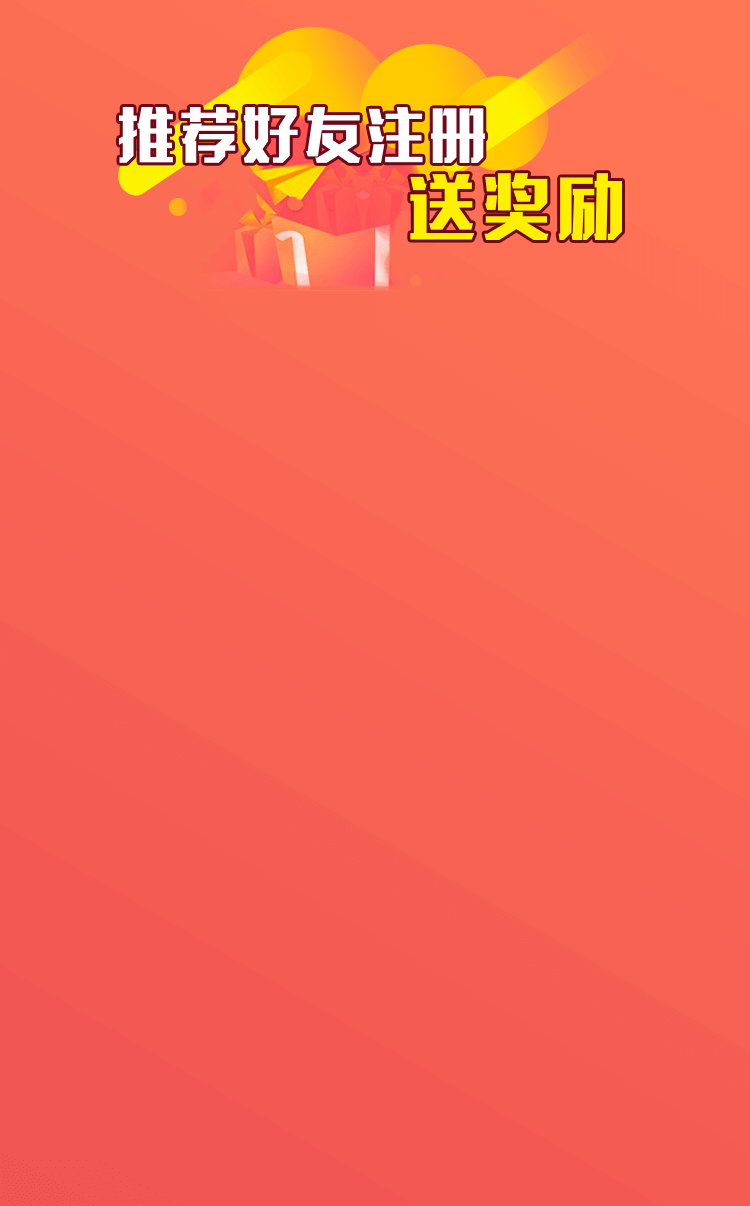
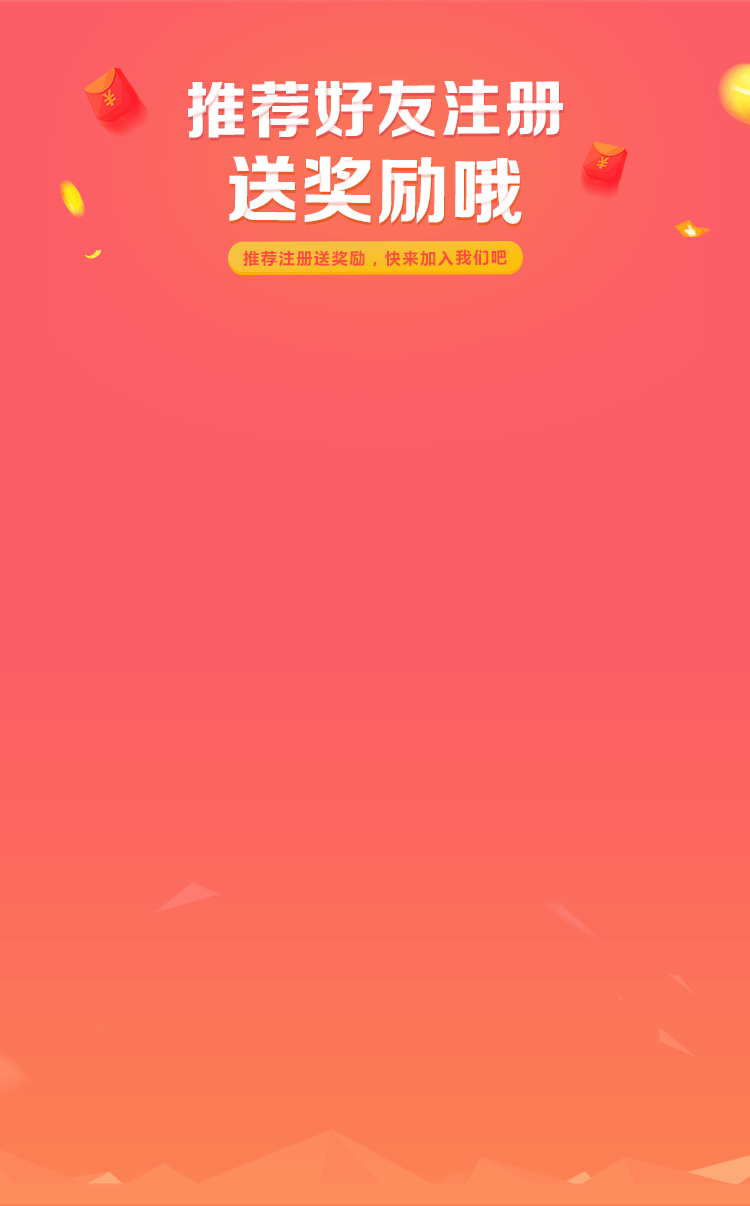
update

diff --git a/static/js/app/controller/user/Register.js b/static/js/app/controller/user/Register.js
@@ -61,17 +61,17 @@
         });
 
         //下载倍可盈app>
-        $(".r-protocol").click(function() {
-        	var timestamp = new Date().getTime()
-            window.location.href = '../share/share-upload.html?timestamp'+timestamp;
-        	$(".r-input").each(function() {
-	            var txt = $(this).siblings(".r-input-placeholder").attr("data-txt");
-	            $(this).val("")
-	            $(this).siblings(".r-input-placeholder").html(txt);
-	            
-	        })
-
-        });
+        // $(".r-protocol").click(function() {
+        // 	var timestamp = new Date().getTime()
+        //     window.location.href = '../share/share-upload.html?timestamp'+timestamp;
+        // 	$(".r-input").each(function() {
+	     //        var txt = $(this).siblings(".r-input-placeholder").attr("data-txt");
+	     //        $(this).val("")
+	     //        $(this).siblings(".r-input-placeholder").html(txt);
+	     //
+	     //    })
+        //
+        // });
 
         //验证码
         $("#rbtn-captcha").click(function() {
@@ -129,11 +129,11 @@
 
         //提交
         $("#rbtn-sub").click(function() {
-            var usernick = $("#r-nick").val();
+            var kind = $("#r-nick").val();
             var userTel = $("#r-tel").val();
             var userCaptcha = $("#r-captcha").val();
             var userPwd = $("#r-pwd").val();
-            if (usernick == null || usernick == "") {
+            if (kind == null || kind == "") {
                 base.showMsg("请输入昵称");
             } else if (userTel == null || userTel == "") {
                 base.showMsg("请输入手机号");
@@ -146,19 +146,15 @@
 				
 				var userReferee = $("#r-ref").val()
                 var parem = {
-                    "nickname": usernick,
+                    "kind": kind,
                     "mobile": userTel,
                     "loginPwd": userPwd,
                     "loginPwdStrength": base.calculateSecurityLevel(userPwd),
-                    "userReferee": userReferee,
+                    "userReferee": userReferee||'13110992819',
                     "inviteCode":inviteCode,
-                    "userRefereeKind": userRefereeKind||"C",
+                    "userRefereeKind": userRefereeKind||"S",
                     "smsCaptcha": userCaptcha,
                     "kind": "C",
-                    // "isRegHx": "0",
-                    // "province": dprovince,
-                    // "city": dcity,
-                    // "area": darea,
                     "systemCode": SYSTEM_CODE,
                     "companyCode": COMPANY_CODE
                 }
@@ -172,7 +168,7 @@
                         		userId: res.data.userId
                         	}).then(function(res) {
                     			CookieUtil.set("inviteCode", res.data.secretUserId);
-                            	window.location.href = '../user/success.html';
+                                window.location.href = '../share/share-upload.html';
 		                    }, function() {
 		        				base.hideLoading();
 		                        base.showMsg("请求失败");

diff --git a/static/html/user/register.html b/static/html/user/register.html
@@ -3,19 +3,24 @@
 
 <head>
     <link rel="import" href="../head.html?__inline">
-    <title>倍可盈</title>
+    <title>美业销帮</title>
     <!--SCRIPT_PLACEHOLDER-->
 </head>
 
 <body class="hp100 bg-r">
     <div class="r-wrap">
         <div class="r-telWrap">
-            <div class="r-icon">昵称</div>
-            <input class="r-style r-input" type="text" id="r-nick" />
-            <div class="r-style r-input-placeholder" data-txt="请设置昵称">请设置昵称</div>
+            <div class="r-icon">角色注册</div>
+            <select class="r-style r-input" id="r-nick"/>
+                <option class="r-style r-input" style="width: 100px;"value ="md">美导</option>
+                <option class="r-style r-input" value ="js">讲师</option>
+                <option class="r-style r-input" value="zj">专家</option>
+                <option class="r-style r-input" value="mry">美容院</option>
+            </select>
+            <div class="r-style r-input-placeholder" data-txt="请选择角色">请选择角色</div>
         </div>
         <div class="r-telWrap">
-            <div class="r-icon">手机号码</div>
+            <div class="r-icon">手机号</div>
             <input class="r-style r-input" type="tel" id="r-tel" pattern="[0-9]*" />
             <div class="r-style r-input-placeholder" data-txt="请输入手机号码">请输入手机号码</div>
         </div>
@@ -31,11 +36,6 @@
             <div class="r-icon">密码</div>
             <input class="r-style r-input" type="password" id="r-pwd" />
             <div class="r-style r-input-placeholder" data-txt="请输入密码">请输入密码(不少于6位)</div>
-        </div>
-        <div class="r-telWrap " id="r-ref-wrap">
-            <div class="r-icon">推荐人手机</div>
-            <input class="r-style r-input" type="tel" id="r-ref" pattern="[0-9]*" />
-            <div class="r-style r-input-placeholder" data-txt="请输入推荐人手机号码">请输入推荐人手机号码</div>
         </div>
         <input type="button" class="rbtn-sub" id="rbtn-sub" value="注册" />
     </div>

diff --git a/static/css/share.css b/static/css/share.css
@@ -98,14 +98,14 @@ input {
     background-size: cover;
 }
 
-.bg-b {
-    background-image: url(../images/bg2.png);
-    background-position: center;
-    background-size: cover;
-}
+/*.bg-b {*/
+    /*background-image: url(../images/bg2.png);*/
+    /*background-position: center;*/
+    /*background-size: cover;*/
+/*}*/
 
 .r-wrap {
-    margin-top: 3.3rem;
+    margin-top: 3.8rem;
     padding: 0 .4rem;
 }
 
@@ -116,7 +116,7 @@ input {
     border-radius: .1rem;
     overflow: hidden;
     position: relative;
-    margin-bottom: .2rem;
+    margin-bottom: .3rem;
 }
 
 .r-icon {
@@ -128,6 +128,7 @@ input {
     top: .27rem;
     left: 0;
     color: #484848;
+    font-size:0.3rem;
     /*border-right: 1px solid #fff;*/
 }
 
@@ -142,7 +143,7 @@ input {
     /*line-height: .9rem;*/
     margin-top: .27rem;
     background-color: transparent;
-    padding: 0 .1rem 0 1.2rem;
+    padding: 0 .1rem 0 2rem;
     color: #fff;
     font-size: .28rem;
     border-radius: .1rem;
@@ -197,7 +198,7 @@ input {
 }
 
 .r-input-placeholder {
-    margin-left: 0.6rem;
+    margin-left: 0rem;
     color: #aaaaaa;
     z-index: 9;
 }
@@ -487,11 +488,13 @@ input {
 .rs-top{
 	text-align: center;
 	width: 100%;
-	padding: .8rem 0;
+	margin: .8rem 0;
+	padding: 2.8rem 0;
+    line-height: inherit;
 }
 .rs-top .icon{
-	width: .44rem;
-	height: .44rem;
+	width: 1.44rem;
+	height: 1.44rem;
 	position: relative;
 	top: .08rem;
 	margin-right: .1rem;
@@ -502,8 +505,8 @@ input {
 }
 .rs-line{
 	width: 100%;
-	height: .2rem;
-	background-color: #f7f7f7;
+	height: 0.3rem;
+	background-color: #ffffff;
 }
 .rs-con{
 	width: 100%;
@@ -555,10 +558,10 @@ input {
 .rs-bottom .btn{
 	display: inline-block;
 	width: 100%;
-	line-height: .68rem;
+	line-height: 0.8rem;
 	background-color: #F15353;
 	color: #fff;
-	font-size: .26rem;
+	font-size: 0.32rem;
 	text-align: center;
 	border-radius: .04rem;
 }

diff --git a/static/html/user/success.html b/static/html/user/success.html
@@ -10,37 +10,24 @@
 <body class="hp100 bg_fff">
 	<div class="rs-wrap">
 		<div class="rs-top">
-			<i class="icon"></i>
-			<samp>注册成功</samp>
-		</div>
-		<div class="rs-line"></div>
-		<div class="rs-con">
-			<p class="txt">通过以下方式邀请好友注册，赚取返利。被邀请的人每完成一笔交易均可获得奖励</p>
-			<div class="rs-btn">
-				<button class="wrap href fl" id="copyBtn" data-clipboard-text="">
-					<i class="icon"></i>
-					<samp>复制链接</samp>
-				</button>
-				<div class="wrap qrcode fr" id="shareQrcodeBtn">
-					<i class="icon"></i>
-					<samp>分享二维码</samp>
-				</div>
-			</div>
+			<i class="icon"></i><br>
+			<div class="rs-line"></div>
+			<samp>注册成功，待后台审核</samp>
 		</div>
 		<div class="rs-bottom">
 			<a class="btn" href="javascript:void(0)" id="goUpload">前往下载APP</a>
 		</div>
 	</div>
 	
-	<div class="dialog am-modal-wrap hiddeni" id="dialog">
-        <div class="am-modal-mask"></div>
-        <div class="am-modal">
-            <div class="am-modal-content">
-            	<p>请长按链接复制</p>
-            	<div class="href"></div>
-            </div>
-        </div>
-    </div>
+	<!--<div class="dialog am-modal-wrap hiddeni" id="dialog">-->
+        <!--<div class="am-modal-mask"></div>-->
+        <!--<div class="am-modal">-->
+            <!--<div class="am-modal-content">-->
+            	<!--<p>请长按链接复制</p>-->
+            	<!--<div class="href"></div>-->
+            <!--</div>-->
+        <!--</div>-->
+    <!--</div>-->
     <link rel="import" href="../footer.html?__inline">
     <script data-loader>
         require(['app/controller/user/Success']);

diff --git a/static/js/app/controller/share/ShareUpload.js b/static/js/app/controller/share/ShareUpload.js
@@ -8,7 +8,7 @@ define([
     init();
     
     function init() {
-    	
+        base.showMsg("注册成功，请等待系统审核");
 		base.showLoading("加载中...")
 		$.when(
 			getAndroidUrl(),
@@ -51,13 +51,13 @@ define([
     }
 	
 	function getAndroidUrl(){
-		return Ajax.get("625918",{
-			"type":"android-c",
+		return Ajax.get("805917",{
+			"ckey":"android_download",
 			"systemCode":SYSTEM_CODE,
 			"companyCode":SYSTEM_CODE
 		}).then(function(res) {
 	        if (res.success) {
-        		androidUpdateUrl = res.data.downloadUrl;
+        		androidUpdateUrl = res.data.cvalue;
 	        } else {
 	        	base.showMsg(res.msg);
 	        }
@@ -67,13 +67,13 @@ define([
 	}
 	
 	function getIosUrl(){
-		return Ajax.get("625918",{
-			"type":"ios-c",
+		return Ajax.get("805917",{
+			"ckey":"ios_download",
 			"systemCode":SYSTEM_CODE,
 			"companyCode":SYSTEM_CODE
 		}).then(function(res) {
 	        if (res.success) {
-        		iosUpdateUrl = res.data.downloadUrl;
+        		iosUpdateUrl = res.data.cvalue;
 	        } else {
 	        	base.showMsg(res.msg);
 	        }

diff --git a/static/js/app/config.js b/static/js/app/config.js
@@ -1,6 +1,6 @@
-var SYSTEM_CODE = "CD-COIN000017";
-var COMPANY_CODE = "CD-COIN000017";
-var PIC_PREFIX = 'http://ozfszueqz.bkt.clouddn.com';
+var SYSTEM_CODE = "CD-CXB000020";
+var COMPANY_CODE = "CD-CXB000020";
+var PIC_PREFIX = 'http://otoieuivb.bkt.clouddn.com';
 var THUMBNAIL_SUFFIX = '?imageView2/1/w/750/h/420';
 var THUMBNAIL_SUFFIX2 = '?imageMogr2/auto-orient/thumbnail/!375x210r';
 var THUMBNAIL_INDEX = '?imageView2/1/w/80/h/80';

diff --git a/static/html/share/share-upload.html b/static/html/share/share-upload.html
@@ -3,7 +3,7 @@
 
 <head>
     <link rel="import" href="../head.html?__inline">
-    <title>下载倍可盈</title>
+    <title>下载美业销帮</title>
     <!--SCRIPT_PLACEHOLDER-->
 </head>
 
